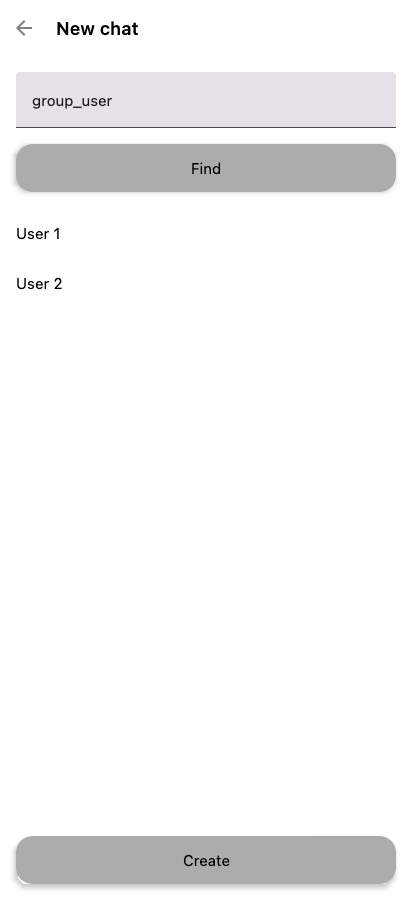
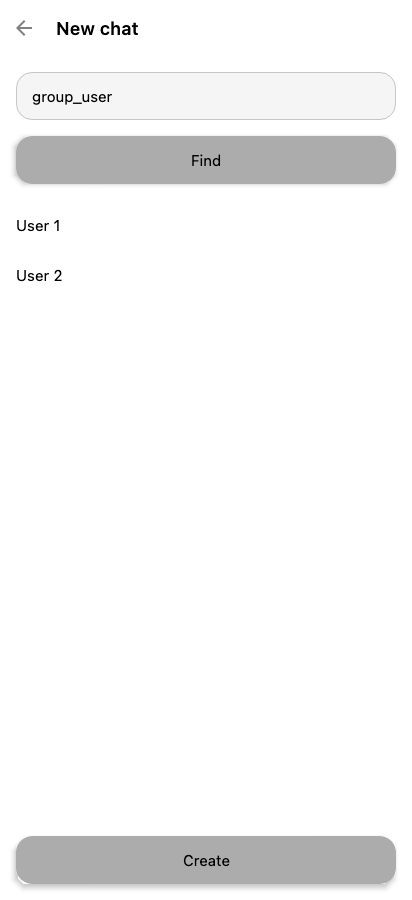
Migrate screens to InputField

diff --git a/features/chat-info/chat-info-ui/src/commonMain/kotlin/com/security/chat/multiplatform/features/chat_info/ui/screens/addmember/AddMemberScreen.kt b/features/chat-info/chat-info-ui/src/commonMain/kotlin/com/security/chat/multiplatform/features/chat_info/ui/screens/addmember/AddMemberScreen.kt
@@ -20,12 +20,9 @@ import androidx.compose.foundation.lazy.LazyColumn
 import androidx.compose.foundation.lazy.items
 import androidx.compose.material3.Icon
 import androidx.compose.material3.Text
-import androidx.compose.material3.TextField
-import androidx.compose.material3.TextFieldDefaults
 import androidx.compose.runtime.Composable
 import androidx.compose.ui.Alignment
 import androidx.compose.ui.Modifier
-import androidx.compose.ui.graphics.Color
 import androidx.compose.ui.tooling.preview.Preview
 import androidx.compose.ui.unit.dp
 import com.security.chat.multiplatform.common.core.localization.StringRes
@@ -34,6 +31,7 @@ import com.security.chat.multiplatform.common.icons.kit.DrawableRes
 import com.security.chat.multiplatform.common.ui.kit.components.ButtonContent
 import com.security.chat.multiplatform.common.ui.kit.components.ButtonPrimary
 import com.security.chat.multiplatform.common.ui.kit.components.CenterContent
+import com.security.chat.multiplatform.common.ui.kit.components.InputField
 import com.security.chat.multiplatform.common.ui.kit.components.SideContent
 import com.security.chat.multiplatform.common.ui.kit.components.ToolbarComponent
 import com.security.chat.multiplatform.common.ui.kit.components.alertdialog.AlertDialogComponent
@@ -103,29 +101,14 @@ private fun AddMemberContent(
                     text = stringResource(StringRes.add_member_title),
                 ),
             )
-            TextField(
+            InputField(
                 modifier = Modifier
                     .fillMaxWidth()
                     .padding(horizontal = 16.dp),
                 value = state.username,
-                onValueChange = onUsernameTextChanged,
-                placeholder = {
-                    Text(
-                        text = stringResource(StringRes.add_member_textfield_placeholder),
-                        style = AppTheme.typography.body,
-                        color = AppTheme.colors.textSuppressed,
-                    )
-                },
+                onValueChanged = onUsernameTextChanged,
+                placeholder = stringResource(StringRes.add_member_textfield_placeholder),
                 enabled = !state.smthIsLoading,
-                maxLines = 1,
-                textStyle = AppTheme.typography.body,
-                colors = TextFieldDefaults.colors(
-                    focusedContainerColor = Color.Transparent,
-                    unfocusedContainerColor = Color.Transparent,
-                    disabledContainerColor = Color.Transparent,
-                    focusedIndicatorColor = AppTheme.colors.accent,
-                    unfocusedIndicatorColor = AppTheme.colors.element,
-                ),
             )
             Spacer(Modifier.height(16.dp))
             ButtonPrimary(

diff --git a/features/add-chat/add-chat-ui/src/commonMain/kotlin/com/security/chat/multiplatform/features/add_chat/ui/AddChatScreen.kt b/features/add-chat/add-chat-ui/src/commonMain/kotlin/com/security/chat/multiplatform/features/add_chat/ui/AddChatScreen.kt
@@ -14,7 +14,6 @@ import androidx.compose.foundation.layout.widthIn
 import androidx.compose.foundation.lazy.LazyColumn
 import androidx.compose.material3.CircularProgressIndicator
 import androidx.compose.material3.Text
-import androidx.compose.material3.TextField
 import androidx.compose.runtime.Composable
 import androidx.compose.ui.Alignment
 import androidx.compose.ui.Modifier
@@ -28,6 +27,7 @@ import com.security.chat.multiplatform.common.ui.kit.MAX_CONTENT_WIDTH_DP
 import com.security.chat.multiplatform.common.ui.kit.components.ButtonContent
 import com.security.chat.multiplatform.common.ui.kit.components.ButtonPrimary
 import com.security.chat.multiplatform.common.ui.kit.components.CenterContent
+import com.security.chat.multiplatform.common.ui.kit.components.InputField
 import com.security.chat.multiplatform.common.ui.kit.components.SideContent
 import com.security.chat.multiplatform.common.ui.kit.components.ToolbarComponent
 import com.security.chat.multiplatform.common.ui.kit.components.alertdialog.AlertDialogComponent
@@ -156,22 +156,14 @@ private fun GroupChat(
         modifier = modifier
             .fillMaxWidth(),
     ) {
-        TextField(
+        InputField(
             modifier = Modifier
                 .fillMaxWidth()
                 .padding(horizontal = 16.dp),
             value = state.username,
-            onValueChange = onUsernameTextChanged,
-            placeholder = {
-                Text(
-                    text = stringResource(StringRes.create_chat_username_placeholder),
-                    style = AppTheme.typography.body,
-                    color = AppTheme.colors.textSuppressed,
-                )
-            },
+            onValueChanged = onUsernameTextChanged,
+            placeholder = stringResource(StringRes.create_chat_username_placeholder),
             enabled = !state.smthIsLoading,
-            maxLines = 1,
-            textStyle = AppTheme.typography.body,
         )
         Spacer(Modifier.height(16.dp))
         if (state.searchInProgress) {

diff --git a/features/profile/profile-ui/src/commonMain/kotlin/com/security/chat/multiplatform/features/profile/ui/screens/main/ProfileMainScreen.kt b/features/profile/profile-ui/src/commonMain/kotlin/com/security/chat/multiplatform/features/profile/ui/screens/main/ProfileMainScreen.kt
@@ -22,7 +22,6 @@ import androidx.compose.material3.CircularProgressIndicator
 import androidx.compose.material3.DropdownMenu
 import androidx.compose.material3.DropdownMenuItem
 import androidx.compose.material3.Text
-import androidx.compose.material3.TextField
 import androidx.compose.runtime.Composable
 import androidx.compose.runtime.getValue
 import androidx.compose.runtime.mutableStateOf
@@ -50,6 +49,7 @@ import com.security.chat.multiplatform.common.ui.kit.MAX_CONTENT_WIDTH_DP
 import com.security.chat.multiplatform.common.ui.kit.components.ButtonContent
 import com.security.chat.multiplatform.common.ui.kit.components.ButtonPrimary
 import com.security.chat.multiplatform.common.ui.kit.components.CenterContent
+import com.security.chat.multiplatform.common.ui.kit.components.InputField
 import com.security.chat.multiplatform.common.ui.kit.components.SideContent
 import com.security.chat.multiplatform.common.ui.kit.components.ToolbarComponent
 import com.security.chat.multiplatform.common.ui.kit.components.alertdialog.AlertDialogComponent
@@ -227,15 +227,13 @@ private fun ProfileContent(
                 style = AppTheme.typography.title2,
             )
             Spacer(modifier = Modifier.height(16.dp))
-            TextField(
+            InputField(
                 modifier = Modifier
                     .fillMaxWidth()
                     .semantics { contentType = ContentType.Username },
                 value = state.login,
-                onValueChange = onUsernameTextChanged,
-                placeholder = {
-                    Text(text = stringResource(StringRes.profile_login_placeholder))
-                },
+                onValueChanged = onUsernameTextChanged,
+                placeholder = stringResource(StringRes.profile_login_placeholder),
                 enabled = !state.showLoading,
             )
         }
